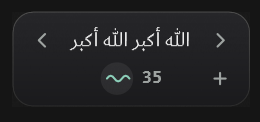
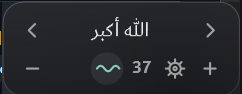
Built-in adhkar: single takbir, add Alhamdulillah
'الله أكبر الله أكبر' becomes 'الله أكبر' (its saved count carries over via
Defaults.Renamed), and 'الحمد لله' is added after it: five built-in adhkar.
Version 1.3.0.

diff --git a/src/Storage.cs b/src/Storage.cs
@@ -71,11 +71,19 @@ namespace Dhikr
             var saved = (s.Adhkar ?? new List<DhikrItem>()).Where(d => d != null && !string.IsNullOrWhiteSpace(d.Text)).ToList();
             string currentText = s.CurrentIndex >= 0 && s.CurrentIndex < saved.Count ? saved[s.CurrentIndex].Text : null;
 
+            // Built-in adhkar whose wording changed keep their counts under the new wording.
+            for (int r = 0; r < Defaults.Renamed.GetLength(0); r++)
+            {
+                string from = Defaults.Renamed[r, 0], to = Defaults.Renamed[r, 1];
+                foreach (var d in saved.Where(d => !d.Custom && d.Text == from)) d.Text = to;
+                if (currentText == from) currentText = to;
+            }
+
             var list = new List<DhikrItem>();
             foreach (var text in Defaults.Adhkar)
             {
-                var old = saved.FirstOrDefault(d => d.Text == text);
-                list.Add(new DhikrItem { Text = text, Count = old != null ? old.Count : 0 });
+                long count = saved.Where(d => !d.Custom && d.Text == text).Sum(d => d.Count);
+                list.Add(new DhikrItem { Text = text, Count = count });
             }
             foreach (var d in saved.Where(d => d.Custom && list.All(x => x.Text != d.Text)))
                 list.Add(d);

diff --git a/src/Defaults.cs b/src/Defaults.cs
@@ -8,10 +8,17 @@ namespace Dhikr
     {
         public static readonly string[] Adhkar =
         {
-            "الله أكبر الله أكبر",
+            "الله أكبر",
+            "الحمد لله",
             "سبحان الله وبحمده، سبحان الله العظيم",
             "أستغفر الله العظيم",
             "لا إله إلا أنت سبحانك إني كنت من الظالمين",
+        };
+
+        /// <summary>Built-in adhkar whose wording changed: old text → new text (their counts carry over).</summary>
+        public static readonly string[,] Renamed =
+        {
+            { "الله أكبر الله أكبر", "الله أكبر" },
         };
 
         /// <summary>Reminder interval choices shown in the menus (minutes).</summary>

diff --git a/installer/Setup.cs b/installer/Setup.cs
@@ -20,7 +20,7 @@ namespace DhikrSetup
     /// </summary>
     static class Setup
     {
-        const string AppName = "Dhikr", DisplayName = "Dhikr - ذكر", Version = "1.2.0";
+        const string AppName = "Dhikr", DisplayName = "Dhikr - ذكر", Version = "1.3.0";
         const string UninstallKey = @"Software\Microsoft\Windows\CurrentVersion\Uninstall\Dhikr";
         const string RunKey = @"Software\Microsoft\Windows\CurrentVersion\Run";
 
